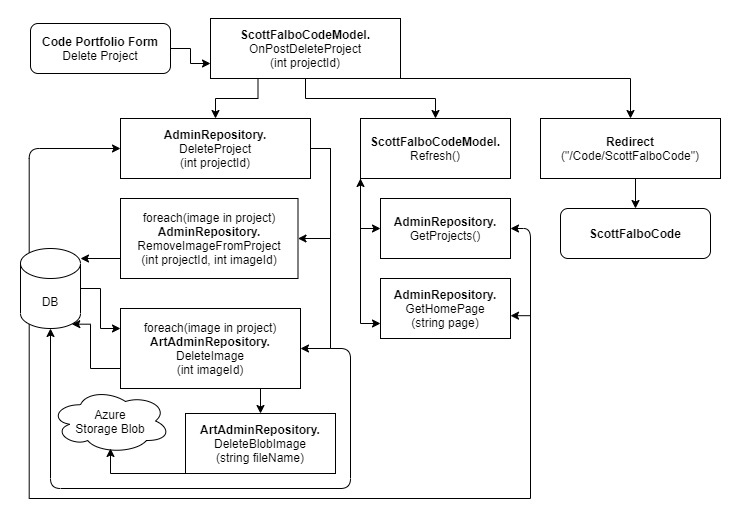
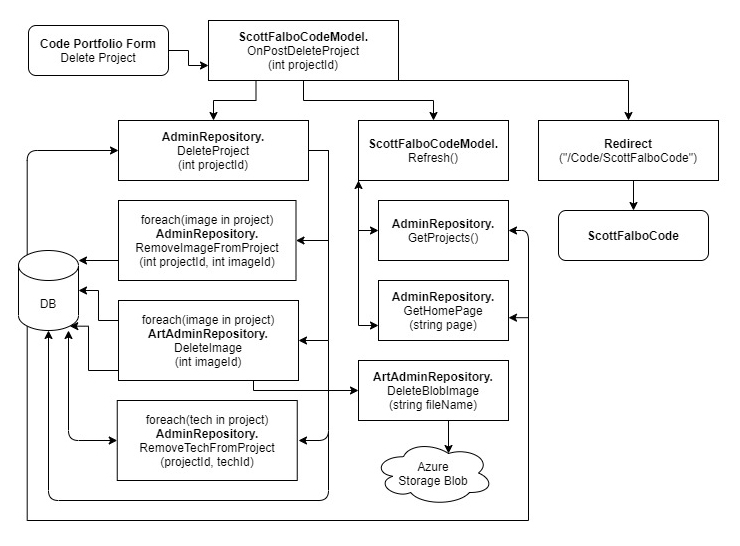
Added domain models for add and delete projects

diff --git a/README.md b/README.md
@@ -98,21 +98,46 @@ There is more information about the languages, technologies, tools, and site arc
 
 ---
 
-## Architecture
-
-### Entity Relationship Diagram
+## Entity Relationship Diagram
 
 ![ERD](/assets/erd.png)
 
+---
+
 ## Domain Models
 
-### Index Admin: Update Image
+Each page on the site has it's own popup admin GUI, visible to authenticated users, that controls the CRUD actions for its content.
+
+### Index Admin
+
+The index page admin controls the home page's profile image, title, and intro paragraph.  
+
+#### Update Image
 
 ![index update model](/assets/index_photo_update_model.jpg)
 
-### Index Admin: Update Page
+#### Update Page
 
 ![index update model](/assets/index_update_model.jpg)
+
+### Code Page Admin
+
+The code page has three separate admin panels.  One for the basic page information, which is the same pattern as the index admin.  The second is an admin GUI with a dropdown `<select>` menu containing a broad list of languages and technologies.  The selected icons appear on the page.  
+The third GUI is what controls the portfolio section of the page.  It has CRUD actions to create, update, and delete projects, as well as add and remove images from projects.
+
+#### Add Project
+
+The add project form takes in a new project title.  Because the title will be used for class names to control the Bootstrap accordion dropdown they need to be unique.  The `CheckProjectTitle` method validates the input.  When the project is created the title is normalized and used to assign several class names for use with dropdowns.  The project is saved to the database with the title and classnames.  Then a list of technologies is attached to the project for display in portfolio view.
+
+![index update model](/assets/code_project_add.jpg)
+
+#### Delete Project
+
+The delete project form sends the project Id to the model. First the join table records for the ProjectImages are removed. Then the respective Image records are removed and the file is deleted from blob storage. Lastly the ProjectTechnology records are removed and then the Project record.
+
+![index update model](/assets/code_project_delete.jpg)
+
+### Art Page Admin
 
 ---
 
@@ -136,5 +161,5 @@ There is more information about the languages, technologies, tools, and site arc
 ## Acknowledgements
 
 + [Bootstrap](https://getbootstrap.com/)
-+ [json2csharp](https://json2csharp.com/)
 + [Microsoft Docs](https://docs.microsoft.com/en-us/)
++ Google and Stack Overflow
